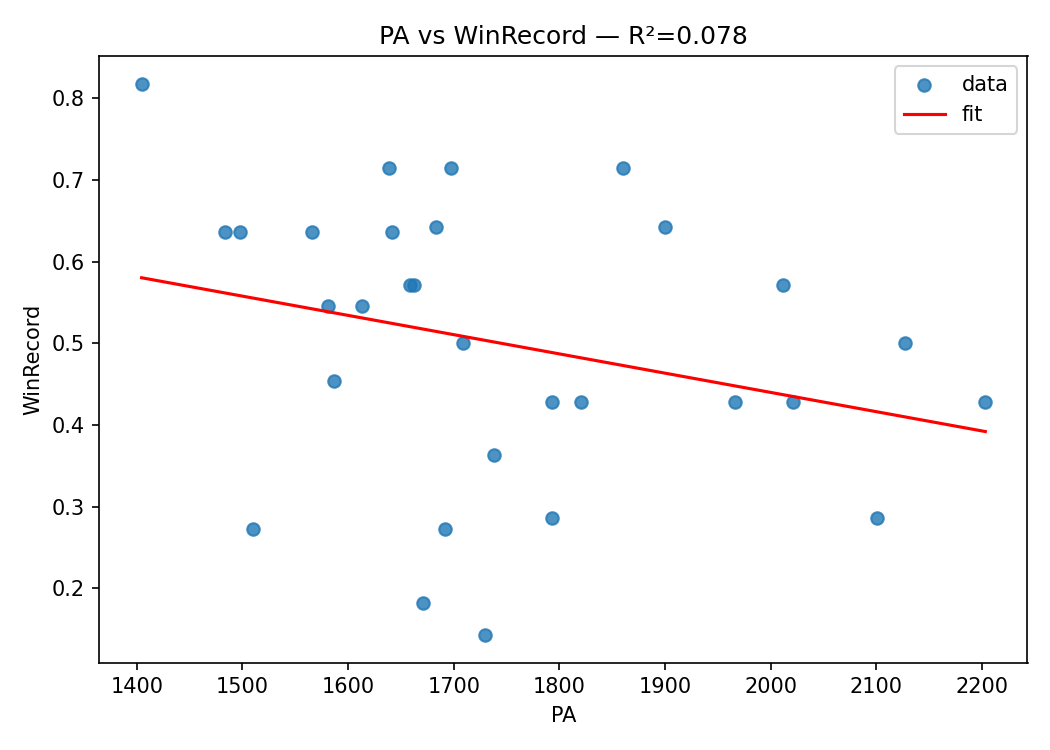
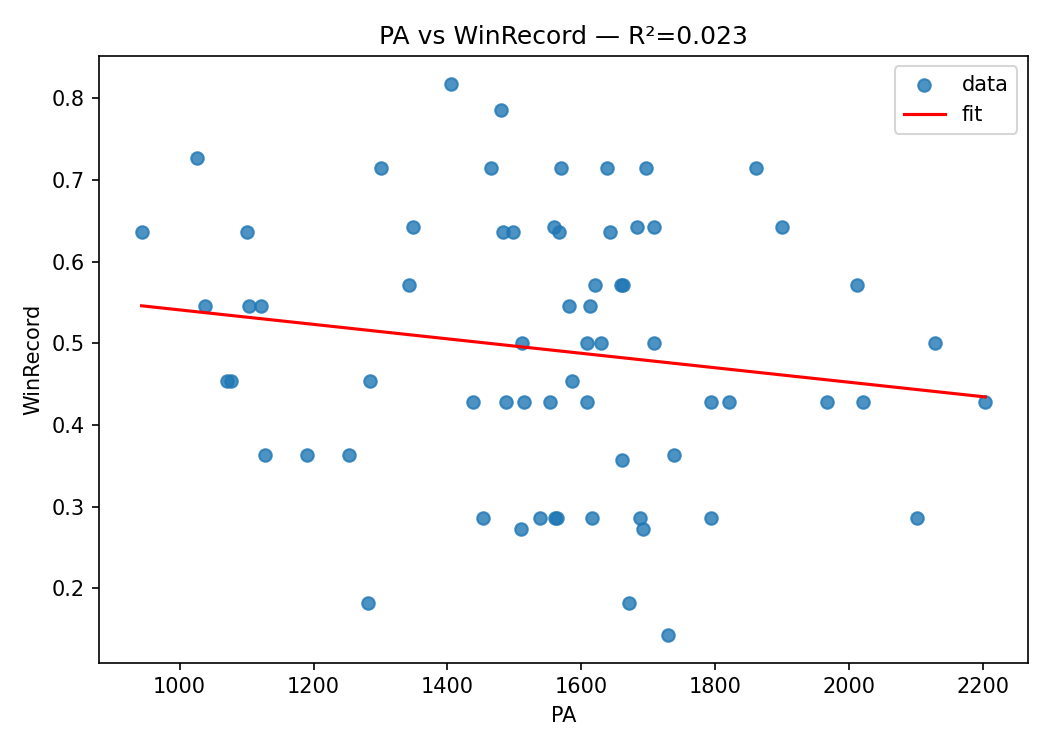
adding data from michael

diff --git a/main.py b/main.py
@@ -261,7 +261,7 @@ def main() -> None:
         combined_pf = []
         combined_pa = []
         combined_win = []
-        for csv_file in dir_path.glob("*.csv"):
+        for csv_file in dir_path.glob("**/*.csv"):
             try:
                 pf, pa, win = load_from_csv(str(csv_file))
                 combined_pf.extend(pf)
